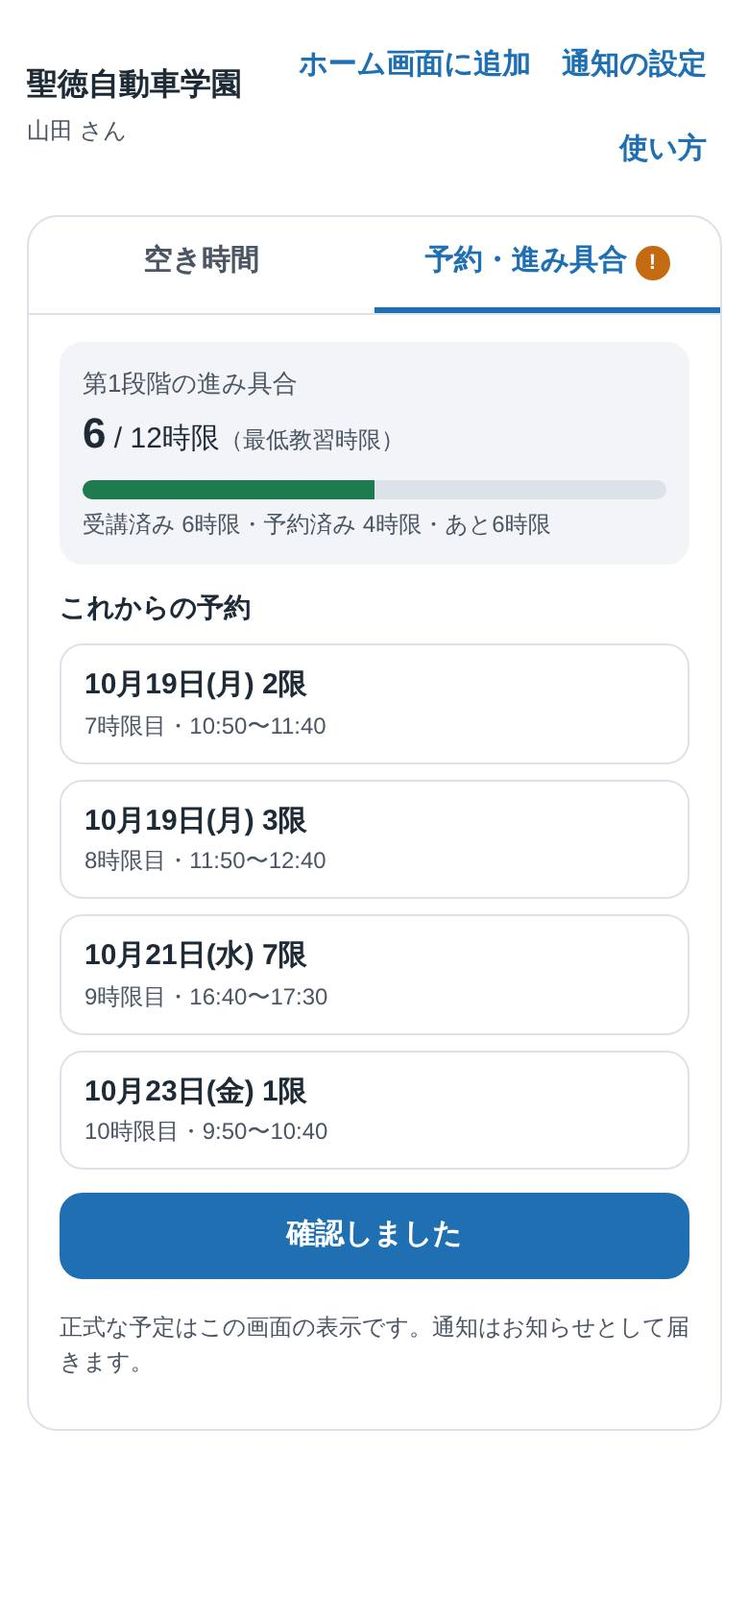
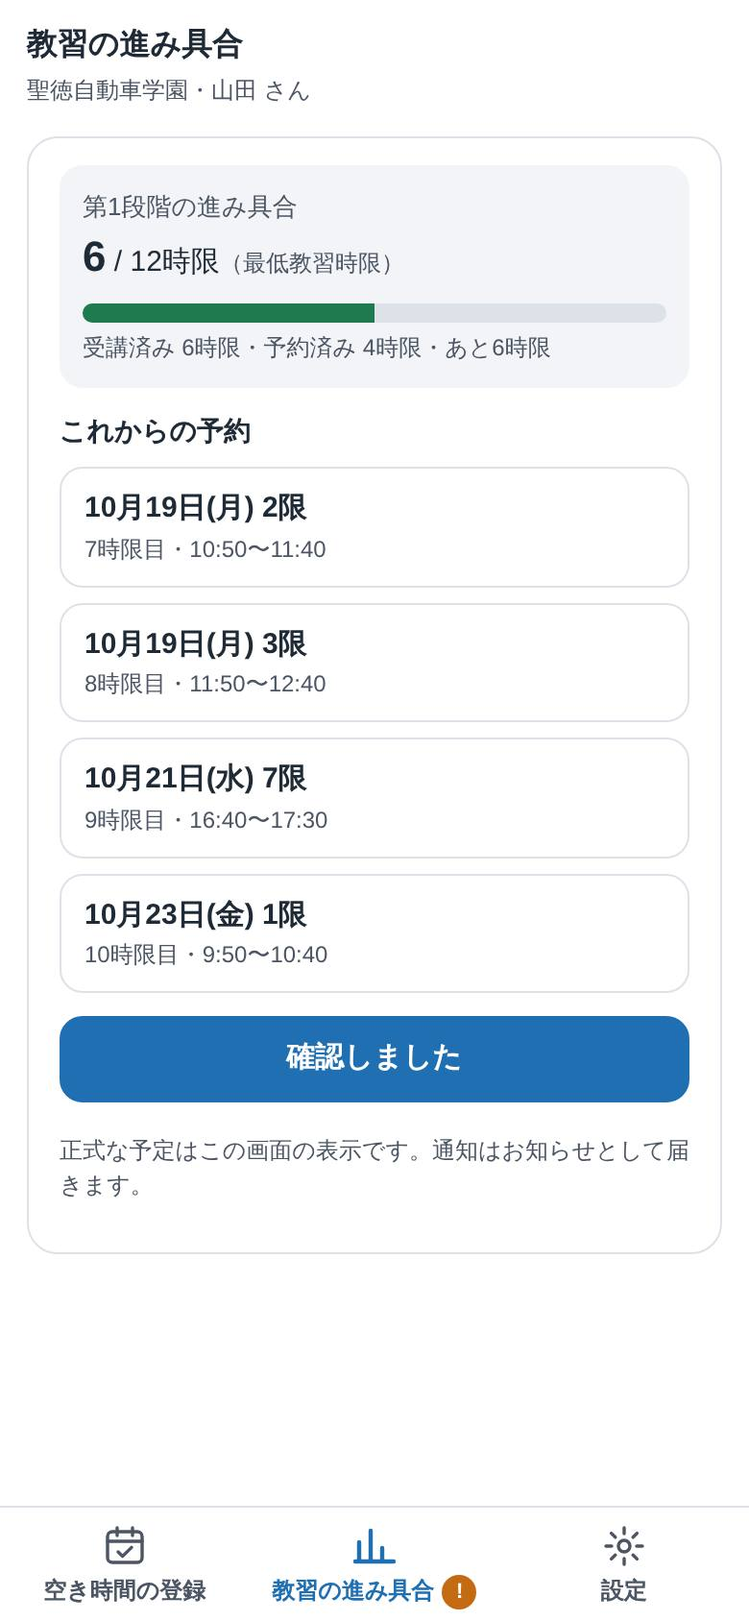
教習生の画面：画面の下にいつも出るタブ（空き時間の登録・教習の進み具合・設定）。設定（明るさ・文字の大きさ・通知など）。ダークモードのボタン文字を見やすく。説明書を撮り直し
Claude-Session: https://claude.ai/code/session_01TFEssVs3Y3zAmrgZUn2J4X

diff --git a/guide-student.html b/guide-student.html
@@ -49,5 +49,5 @@ footer{margin-top:28px;font-size:13px;color:var(--muted)}
 @media print{body{background:#fff}.phone{box-shadow:none}section.step{break-inside:avoid-page}nav.toc{display:none}}
 </style>
 <div class="wrap"><p style="margin:0 0 12px"><a href="javascript:history.back()" style="color:var(--blue);font-weight:700;text-decoration:none">← 前の画面に戻る</a></p><header class="cover"><div class="eyebrow">聖徳自動車学園　空き時間の登録</div><h1>スマホで空き時間を登録する方法</h1><p class="lead">これまで紙で提出していた「予約を入れてよい時間帯」を、スマホで登録します。予約が決まるとスマホに通知が届きます。ログインはいりません。学園で受け取ったQRコードを読み取るだけで、あなた専用の画面が開きます。</p><nav class="toc" aria-label="目次"><a href="#s1">最初にやること</a><a href="#s2">通知をオンにする</a><a href="#s3">空き時間を登録する</a><a href="#s4">予約を確認する</a><a href="#s5">予約をキャンセルしたい時</a><a href="#s6">検定の日</a><a href="#faq">困った時</a></nav></header>
-<section class="step" id="s1"><h2><span class="no">1</span>最初にやること</h2><p>QRコードをスマホのカメラで読み取ると、あなたの画面が開きます。最初に「ホーム画面に追加」をしておくと、次からはアイコンを押すだけで開けます。</p><div class="fig"><div class="phone"><img src="guide/s_install.jpg" alt="画面の例（ホーム画面に追加する手順、あとで）"><div class="mk" style="left:3.3%;top:73.74%;width:93.4%;height:12.74%"><b>1</b></div><div class="mk" style="left:3.3%;top:92.19%;width:93.4%;height:6.07%"><b>2</b></div></div><ol class="notes"><li><b>1</b><div><strong>ホーム画面に追加する手順</strong><span>iPhoneは、Safariの画面下の共有ボタン →「ホーム画面に追加」→「追加」の順に押します。Androidは「ホーム画面に追加する」ボタンが出るので、それを押します。</span></div></li><li><b>2</b><div><strong>あとで</strong><span>あとから追加する時は、画面上の「ホーム画面に追加」を押すと、この案内がもう一度出ます。</span></div></li></ol></div><div class="tip"><b>QRコードは自分だけのものです</b>QRコードを読み取ると、あなたの画面が開きます。他の人に見せたり、写真を送ったりしないでください。</div></section><section class="step" id="s2"><h2><span class="no">2</span>通知をオンにする</h2><p>予約が決まった時や変更があった時に、スマホに通知が届くようにします。画面右上の「通知の設定」を押してください。</p><div class="fig"><div class="phone"><img src="guide/s_push.jpg" alt="画面の例（iPhoneの方へ、通知を受け取る）"><div class="mk" style="left:3.3%;top:75.25%;width:93.4%;height:10.10%"><b>1</b></div><div class="mk" style="left:3.3%;top:85.97%;width:93.4%;height:6.07%"><b>2</b></div></div><ol class="notes"><li><b>1</b><div><strong>iPhoneの方へ</strong><span>iPhoneは、ホーム画面に追加したアイコンから開いた時だけ通知を受け取れます。先に「1 最初にやること」を済ませてください。</span></div></li><li><b>2</b><div><strong>通知を受け取る</strong><span>押すと「通知を許可しますか？」と聞かれるので、「許可」を選びます。</span></div></li></ol></div></section><section class="step" id="s3"><h2><span class="no">3</span>空き時間を登録する</h2><p>教習を受けられる時間帯に◯を付けます。タップするとすぐに保存されるので、保存ボタンはありません。</p><div class="fig"><div class="phone"><img src="guide/s_cal.jpg" alt="画面の例（締切のお知らせ、月の切り替え、マスをタップして◯を付ける、通知の設定）"><div class="mk" style="left:7.1%;top:20.63%;width:85.7%;height:12.41%"><b>1</b></div><div class="mk" style="left:7.1%;top:33.66%;width:85.7%;height:5.54%"><b>2</b></div><div class="mk" style="left:7.9%;top:50.73%;width:92.4%;height:4.59%"><b>3</b></div><div class="mk" style="left:72.2%;top:1.02%;width:25.0%;height:6.01%"><b>4</b></div></div><ol class="notes"><li><b>1</b><div><strong>締切のお知らせ</strong><span>次の月の分は、毎月20日が入力の締切です。締切までは何度でも変更できます。</span></div></li><li><b>2</b><div><strong>月の切り替え</strong><span>今月と来月を切り替えます。</span></div></li><li><b>3</b><div><strong>マスをタップして◯を付ける</strong><span>横が時限（1〜10限）、縦が日付です。空いている時間帯をタップすると◯が付き、もう一度タップすると外れます。</span></div></li><li><b>4</b><div><strong>通知の設定</strong><span>通知をオンにする時に使います。</span></div></li></ol></div><div class="fig"><div class="phone part"><img src="guide/s_cal2.jpg" alt="画面の例（色の見方、今月と同じにする、曜日でまとめて選ぶ）"><div class="mk" style="left:7.1%;top:71.60%;width:85.7%;height:10.40%"><b>1</b></div><div class="mk" style="left:7.1%;top:83.20%;width:42.6%;height:14.20%"><b>2</b></div><div class="mk" style="left:50.2%;top:83.20%;width:42.6%;height:14.20%"><b>3</b></div></div><ol class="notes"><li><b>1</b><div><strong>色の見方</strong><span>青い◯は空いている時間、オレンジの「予」は予約が入った時間です。</span></div></li><li><b>2</b><div><strong>今月と同じにする</strong><span>今月の◯の付け方（曜日ごと）を、来月にそのまま写します。</span></div></li><li><b>3</b><div><strong>曜日でまとめて選ぶ</strong><span>「毎週土曜の1・2限」のように、まとめて◯を付けられます。</span></div></li></ol></div><div class="fig"><div class="phone"><img src="guide/s_bulk.jpg" alt="画面の例（曜日を選ぶ、時限を選ぶ、◯を付ける）"><div class="mk" style="left:3.3%;top:69.03%;width:93.4%;height:6.49%"><b>1</b></div><div class="mk" style="left:3.3%;top:78.92%;width:93.4%;height:12.41%"><b>2</b></div><div class="mk" style="left:50.2%;top:92.19%;width:46.5%;height:6.07%"><b>3</b></div></div><ol class="notes"><li><b>1</b><div><strong>曜日を選ぶ</strong><span>◯を付けたい曜日を選びます。いくつでも選べます。</span></div></li><li><b>2</b><div><strong>時限を選ぶ</strong><span>◯を付けたい時限を選びます。</span></div></li><li><b>3</b><div><strong>◯を付ける</strong><span>選んだ曜日と時限のマスに、まとめて◯が付きます。</span></div></li></ol></div><div class="tip warn"><b>締切（20日）を過ぎたら</b>◯を付けることはできますが、外すことはできません（指導員が予約を組んでいる途中のためです）。都合が悪くなった時は、学園に電話してください。電話番号：<span class="tel">058-387-4171</span></div></section><section class="step" id="s4"><h2><span class="no">4</span>予約を確認する</h2><p>指導員が予約を決めると通知が届きます。「予約・進み具合」タブで内容を確認してください。</p><div class="fig"><div class="phone"><img src="guide/s_book.jpg" alt="画面の例（進み具合、これからの予約、確認しました）"><div class="mk" style="left:7.1%;top:20.63%;width:85.7%;height:14.60%"><b>1</b></div><div class="mk" style="left:7.1%;top:39.29%;width:85.7%;height:33.26%"><b>2</b></div><div class="mk" style="left:7.1%;top:73.18%;width:85.7%;height:6.07%"><b>3</b></div></div><ol class="notes"><li><b>1</b><div><strong>進み具合</strong><span>今の段階で受けた時限数と、最低教習時限（第1段階12時限、第2段階19時限）までのあと何時限かが分かります。</span></div></li><li><b>2</b><div><strong>これからの予約</strong><span>日付・時限・時間と、何時限目の教習かが出ます。</span></div></li><li><b>3</b><div><strong>確認しました</strong><span>予約を見たら必ず押してください。押さないと、指導員から確認の連絡が来ることがあります。</span></div></li></ol></div><div class="tip"><b>正式な予定はこの画面です</b>通知はお知らせです。予定はこの画面の表示を見てください。</div></section><section class="step" id="s5"><h2><span class="no">5</span>予約をキャンセルしたい時</h2><p>空き時間のカレンダーで、予約が入っているマス（オレンジの「予」）を押します。</p><div class="fig"><div class="phone"><img src="guide/s_locked.jpg" alt="画面の例（予約が入っているマス）"><div class="mk" style="left:28.5%;top:39.59%;width:9.3%;height:4.35%"><b>1</b></div></div><ol class="notes"><li><b>1</b><div><strong>予約が入っているマス</strong><span>予約済みのマスは、自分では外せません。押すと次の画面が出ます。</span></div></li></ol></div><div class="fig"><div class="phone"><img src="guide/s_cancel.jpg" alt="画面の例（キャンセル希望を送る、学園に電話する）"><div class="mk" style="left:3.3%;top:79.81%;width:93.4%;height:6.07%"><b>1</b></div><div class="mk" style="left:3.3%;top:86.03%;width:93.4%;height:6.01%"><b>2</b></div></div><ol class="notes"><li><b>1</b><div><strong>キャンセル希望を送る</strong><span>指導員にキャンセルの希望が届きます。指導員が承認すると、通知でお知らせします。承認されるまでは予約のままです。</span></div></li><li><b>2</b><div><strong>学園に電話する</strong><span>急ぎの時は電話してください。電話番号：<span class="tel">058-387-4171</span></span></div></li></ol></div></section><section class="step" id="s6"><h2><span class="no">6</span>検定の日</h2><p>みきわめに合格すると、「予約・進み具合」タブに検定日が出ます。検定日の当日は、朝に通知が届き、画面にもお知らせが出ます。</p><div class="fig"><div class="phone part"><img src="guide/s_kentei.jpg" alt="画面の例（検定日のお知らせ）"><div class="mk" style="left:7.1%;top:53.39%;width:85.7%;height:28.68%"><b>1</b></div></div><ol class="notes"><li><b>1</b><div><strong>検定日のお知らせ</strong><span>これまでに教わった事をよく思い出して、頑張ってください。</span></div></li></ol></div></section><section class="step" id="faq"><h2><span class="no">？</span>困った時は</h2><div class="faq"><div><strong>画面が開かない・読み込み中のまま</strong><span>LINEなどのアプリの中で開くと動かないことがあります。Safari（iPhone）か Chrome（Android）で開き直してください。それでもだめな時は、スマホのOSとブラウザを最新にしてください。</span></div><div><strong>QRコードをなくした・スマホを替えた</strong><span>担当の指導員に伝えてください。新しいQRコードを出してもらえます。登録した空き時間や予約はそのまま残ります。</span></div><div><strong>通知が来ない</strong><span>「通知の設定」で「通知を受け取る」を押したか確認してください。iPhoneはホーム画面のアイコンから開いて設定する必要があります。</span></div><div><strong>◯を外したいのに外せない</strong><span>締切（毎月20日）を過ぎると外せません。学園に電話してください。<span class="tel">058-387-4171</span></span></div></div></section>
+<section class="step" id="s1"><h2><span class="no">1</span>最初にやること</h2><p>QRコードをスマホのカメラで読み取ると、あなたの画面が開きます。最初に「ホーム画面に追加」をしておくと、次からはアイコンを押すだけで開けます。</p><div class="fig"><div class="phone"><img src="guide/s_install.jpg" alt="画面の例（ホーム画面に追加する手順、あとで）"><div class="mk" style="left:3.3%;top:73.74%;width:93.4%;height:12.74%"><b>1</b></div><div class="mk" style="left:3.3%;top:92.19%;width:93.4%;height:6.07%"><b>2</b></div></div><ol class="notes"><li><b>1</b><div><strong>ホーム画面に追加する手順</strong><span>iPhoneは、Safariの画面下の共有ボタン →「ホーム画面に追加」→「追加」の順に押します。Androidは「ホーム画面に追加する」ボタンが出るので、それを押します。</span></div></li><li><b>2</b><div><strong>あとで</strong><span>あとから追加する時は、画面の下の「設定」にある「ホーム画面に追加」を押すと、この案内がもう一度出ます。</span></div></li></ol></div><div class="tip"><b>QRコードは自分だけのものです</b>QRコードを読み取ると、あなたの画面が開きます。他の人に見せたり、写真を送ったりしないでください。</div></section><section class="step" id="s2"><h2><span class="no">2</span>通知をオンにする</h2><p>予約が決まった時や変更があった時に、スマホに通知が届くようにします。画面の下の「設定」を開いて、「通知の設定」を押してください。</p><div class="fig"><div class="phone"><img src="guide/s_set.jpg" alt="画面の例（画面の明るさ・文字の大きさ、通知・アプリ）"><div class="mk" style="left:7.1%;top:11.15%;width:85.7%;height:15.85%"><b>1</b></div><div class="mk" style="left:7.1%;top:40.65%;width:85.7%;height:25.03%"><b>2</b></div></div><ol class="notes"><li><b>1</b><div><strong>画面の明るさ・文字の大きさ</strong><span>ライト（白い背景）とダーク（黒い背景）、文字の大きさを選べます。</span></div></li><li><b>2</b><div><strong>通知・アプリ</strong><span>「通知の設定」で通知をオンにします。「ホーム画面に追加」もここからできます。</span></div></li></ol></div><div class="fig"><div class="phone"><img src="guide/s_push.jpg" alt="画面の例（iPhoneの方へ、通知を受け取る）"><div class="mk" style="left:3.3%;top:75.25%;width:93.4%;height:10.10%"><b>1</b></div><div class="mk" style="left:3.3%;top:85.97%;width:93.4%;height:6.07%"><b>2</b></div></div><ol class="notes"><li><b>1</b><div><strong>iPhoneの方へ</strong><span>iPhoneは、ホーム画面に追加したアイコンから開いた時だけ通知を受け取れます。先に「1 最初にやること」を済ませてください。</span></div></li><li><b>2</b><div><strong>通知を受け取る</strong><span>押すと「通知を許可しますか？」と聞かれるので、「許可」を選びます。</span></div></li></ol></div></section><section class="step" id="s3"><h2><span class="no">3</span>空き時間を登録する</h2><p>画面の下の「空き時間の登録」で、教習を受けられる時間帯に◯を付けます。タップするとすぐに保存されるので、保存ボタンはありません。</p><div class="fig"><div class="phone"><img src="guide/s_cal.jpg" alt="画面の例（締切のお知らせ、月の切り替え、マスをタップして◯を付ける、画面の切り替え）"><div class="mk" style="left:7.1%;top:9.73%;width:85.7%;height:12.41%"><b>1</b></div><div class="mk" style="left:7.1%;top:22.76%;width:85.7%;height:5.54%"><b>2</b></div><div class="mk" style="left:7.9%;top:39.83%;width:92.4%;height:4.59%"><b>3</b></div><div class="mk" style="left:-0.3%;top:92.73%;width:100.6%;height:7.17%"><b>4</b></div></div><ol class="notes"><li><b>1</b><div><strong>締切のお知らせ</strong><span>次の月の分は、毎月20日が入力の締切です。締切までは何度でも変更できます。</span></div></li><li><b>2</b><div><strong>月の切り替え</strong><span>今月と来月を切り替えます。</span></div></li><li><b>3</b><div><strong>マスをタップして◯を付ける</strong><span>横が時限（1〜10限）、縦が日付です。空いている時間帯をタップすると◯が付き、もう一度タップすると外れます。</span></div></li><li><b>4</b><div><strong>画面の切り替え</strong><span>画面の下のタブで、「空き時間の登録」「教習の進み具合」「設定」を切り替えます。いつも表示されています。</span></div></li></ol></div><div class="fig"><div class="phone part"><img src="guide/s_cal2.jpg" alt="画面の例（色の見方、今月と同じにする、曜日でまとめて選ぶ）"><div class="mk" style="left:7.1%;top:71.60%;width:85.7%;height:10.40%"><b>1</b></div><div class="mk" style="left:7.1%;top:83.20%;width:42.6%;height:14.20%"><b>2</b></div><div class="mk" style="left:50.2%;top:83.20%;width:42.6%;height:14.20%"><b>3</b></div></div><ol class="notes"><li><b>1</b><div><strong>色の見方</strong><span>青い◯は空いている時間、オレンジの「予」は予約が入った時間です。</span></div></li><li><b>2</b><div><strong>今月と同じにする</strong><span>今月の◯の付け方（曜日ごと）を、来月にそのまま写します。</span></div></li><li><b>3</b><div><strong>曜日でまとめて選ぶ</strong><span>「毎週土曜の1・2限」のように、まとめて◯を付けられます。</span></div></li></ol></div><div class="fig"><div class="phone"><img src="guide/s_bulk.jpg" alt="画面の例（曜日を選ぶ、時限を選ぶ、◯を付ける）"><div class="mk" style="left:3.3%;top:69.03%;width:93.4%;height:6.49%"><b>1</b></div><div class="mk" style="left:3.3%;top:78.92%;width:93.4%;height:12.41%"><b>2</b></div><div class="mk" style="left:50.2%;top:92.19%;width:46.5%;height:6.07%"><b>3</b></div></div><ol class="notes"><li><b>1</b><div><strong>曜日を選ぶ</strong><span>◯を付けたい曜日を選びます。いくつでも選べます。</span></div></li><li><b>2</b><div><strong>時限を選ぶ</strong><span>◯を付けたい時限を選びます。</span></div></li><li><b>3</b><div><strong>◯を付ける</strong><span>選んだ曜日と時限のマスに、まとめて◯が付きます。</span></div></li></ol></div><div class="tip warn"><b>締切（20日）を過ぎたら</b>◯を付けることはできますが、外すことはできません（指導員が予約を組んでいる途中のためです）。都合が悪くなった時は、学園に電話してください。電話番号：<span class="tel">058-387-4171</span></div></section><section class="step" id="s4"><h2><span class="no">4</span>予約を確認する</h2><p>指導員が予約を決めると通知が届きます。画面の下の「教習の進み具合」で内容を確認してください。</p><div class="fig"><div class="phone"><img src="guide/s_book.jpg" alt="画面の例（進み具合、これからの予約、確認しました）"><div class="mk" style="left:7.1%;top:9.73%;width:85.7%;height:14.60%"><b>1</b></div><div class="mk" style="left:7.1%;top:28.39%;width:85.7%;height:33.26%"><b>2</b></div><div class="mk" style="left:7.1%;top:62.28%;width:85.7%;height:6.07%"><b>3</b></div></div><ol class="notes"><li><b>1</b><div><strong>進み具合</strong><span>今の段階で受けた時限数と、最低教習時限（第1段階12時限、第2段階19時限）までのあと何時限かが分かります。</span></div></li><li><b>2</b><div><strong>これからの予約</strong><span>日付・時限・時間と、何時限目の教習かが出ます。</span></div></li><li><b>3</b><div><strong>確認しました</strong><span>予約を見たら必ず押してください。押さないと、指導員から確認の連絡が来ることがあります。</span></div></li></ol></div><div class="tip"><b>正式な予定はこの画面です</b>通知はお知らせです。予定はこの画面の表示を見てください。</div></section><section class="step" id="s5"><h2><span class="no">5</span>予約をキャンセルしたい時</h2><p>「空き時間の登録」のカレンダーで、予約が入っているマス（オレンジの「予」）を押します。</p><div class="fig"><div class="phone"><img src="guide/s_locked.jpg" alt="画面の例（予約が入っているマス）"><div class="mk" style="left:28.5%;top:28.69%;width:9.3%;height:4.35%"><b>1</b></div></div><ol class="notes"><li><b>1</b><div><strong>予約が入っているマス</strong><span>予約済みのマスは、自分では外せません。押すと次の画面が出ます。</span></div></li></ol></div><div class="fig"><div class="phone"><img src="guide/s_cancel.jpg" alt="画面の例（キャンセル希望を送る、学園に電話する）"><div class="mk" style="left:3.3%;top:79.81%;width:93.4%;height:6.07%"><b>1</b></div><div class="mk" style="left:3.3%;top:86.03%;width:93.4%;height:6.01%"><b>2</b></div></div><ol class="notes"><li><b>1</b><div><strong>キャンセル希望を送る</strong><span>指導員にキャンセルの希望が届きます。指導員が承認すると、通知でお知らせします。承認されるまでは予約のままです。</span></div></li><li><b>2</b><div><strong>学園に電話する</strong><span>急ぎの時は電話してください。電話番号：<span class="tel">058-387-4171</span></span></div></li></ol></div></section><section class="step" id="s6"><h2><span class="no">6</span>検定の日</h2><p>みきわめに合格すると、「教習の進み具合」に検定日が出ます。検定日の当日は、朝に通知が届き、画面にもお知らせが出ます。</p><div class="fig"><div class="phone part"><img src="guide/s_kentei.jpg" alt="画面の例（検定日のお知らせ）"><div class="mk" style="left:2.8%;top:20.36%;width:94.4%;height:28.68%"><b>1</b></div></div><ol class="notes"><li><b>1</b><div><strong>検定日のお知らせ</strong><span>これまでに教わった事をよく思い出して、頑張ってください。</span></div></li></ol></div></section><section class="step" id="faq"><h2><span class="no">？</span>困った時は</h2><div class="faq"><div><strong>画面が開かない・読み込み中のまま</strong><span>LINEなどのアプリの中で開くと動かないことがあります。Safari（iPhone）か Chrome（Android）で開き直してください。それでもだめな時は、スマホのOSとブラウザを最新にしてください。</span></div><div><strong>QRコードをなくした・スマホを替えた</strong><span>担当の指導員に伝えてください。新しいQRコードを出してもらえます。登録した空き時間や予約はそのまま残ります。</span></div><div><strong>通知が来ない</strong><span>画面の下の「設定」→「通知の設定」で「通知を受け取る」を押したか確認してください。iPhoneはホーム画面のアイコンから開いて設定する必要があります。</span></div><div><strong>◯を外したいのに外せない</strong><span>締切（毎月20日）を過ぎると外せません。学園に電話してください。<span class="tel">058-387-4171</span></span></div></div></section>
 <footer>画面の名前や日付は説明用の見本です。分からないことは担当の指導員か、学園の事務所に聞いてください。</footer></div>

diff --git a/js/student.js b/js/student.js
@@ -5,7 +5,7 @@ import {
 import {
   CFG, db, WD, P, ymOf, dateStr, parseDate, daysIn, today, md, label, slotKey, esc, toast, sheet, closeSheet,
   onOverlayClose, friendlyError, enablePush, pushReasonText, isIOS, isStandalone, listenForeground,
-  installButton, firstVisitInstall, lessonPlan, lessonMin, doneOf, mikiwameOf, kenteiOn
+  installButton, firstVisitInstall, lessonPlan, lessonMin, doneOf, mikiwameOf, kenteiOn, lookSettingsHtml
 } from "./common.js";
 
 const app = document.getElementById("app");
@@ -62,18 +62,38 @@ function unacked() {
   return n && (!a || n.toMillis() > a.toMillis());
 }
 
-function render() {
-  const st = S.student;
-  let h = `<div class="topbar"><div><h1>${esc(CFG.schoolName)}</h1><small>${esc(st.name)} さん</small></div>
-    <span>${installButton()}<button class="linkbtn" data-act="push">通知の設定</button><a class="linkbtn" href="guide-student.html">使い方</a></span></div>
-  <section class="panel"><div class="tabs" role="tablist">
-    <button role="tab" aria-selected="${S.tab === "cal"}" data-act="tab" data-v="cal">空き時間</button>
-    <button role="tab" aria-selected="${S.tab === "book"}" data-act="tab" data-v="book">予約・進み具合${unacked() ? '<span class="dot">!</span>' : ""}</button>
-  </div><div class="body">`;
-  if (kenteiOn(st)) h += `<div class="banner ok" style="font-size:16px;text-align:center"><b>本日はいよいよ検定日です！</b><br>これまでに教わった事をよく思い出して頑張りましょう！</div>`;
-  h += S.tab === "cal" ? renderCal() : renderBook();
-  app.innerHTML = h + `</div></section>`;
+// 画面の下にいつも出すタブ：左「空き時間の登録」、真ん中「教習の進み具合」、右「設定」
+const TABS = [
+  ["cal", "空き時間の登録", '<svg viewBox="0 0 24 24" aria-hidden="true"><rect x="3" y="4.5" width="18" height="16" rx="2.5"/><path d="M3 9.5h18M8 2.5v4M16 2.5v4M8.5 15l2.3 2.3 4.7-4.6"/></svg>'],
+  ["book", "教習の進み具合", '<svg viewBox="0 0 24 24" aria-hidden="true"><path d="M4 20V10M10 20V4M16 20v-7M22 20H2"/></svg>'],
+  ["set", "設定", '<svg viewBox="0 0 24 24" aria-hidden="true"><circle cx="12" cy="12" r="3"/><path d="M12 2.5v3M12 18.5v3M2.5 12h3M18.5 12h3M5.3 5.3l2.1 2.1M16.6 16.6l2.1 2.1M5.3 18.7l2.1-2.1M16.6 7.4l2.1-2.1"/></svg>']
+];
+function renderNav() {
+  const nav = document.getElementById("tabnav");
+  document.body.classList.add("shell"); nav.hidden = false;
+  nav.innerHTML = `<div class="tn-tabs" role="tablist">${TABS.map(([v, t, ic]) => `<button role="tab" aria-selected="${S.tab === v}" data-act="tab" data-v="${v}">${ic}<span>${t}${v === "book" && unacked() ? '<span class="dot">!</span>' : ""}</span></button>`).join("")}</div>`;
 }
+function render() {
+  const st = S.student, title = TABS.find(x => x[0] === S.tab)[1];
+  let h = `<div class="topbar"><div><h1>${title}</h1><small>${esc(CFG.schoolName)}・${esc(st.name)} さん</small></div></div>`;
+  if (kenteiOn(st)) h += `<div class="banner ok" style="font-size:16px;text-align:center"><b>本日はいよいよ検定日です！</b><br>これまでに教わった事をよく思い出して頑張りましょう！</div>`;
+  h += `<section class="panel"><div class="body${S.tab === "set" ? " setpage" : ""}">`;
+  h += S.tab === "cal" ? renderCal() : S.tab === "book" ? renderBook() : renderSet();
+  app.innerHTML = h + `</div></section>`;
+  renderNav();
+}
+// 設定：見た目（明るさ・文字の大きさ）、通知、ホーム画面に追加、困った時
+function renderSet() {
+  const st = S.student;
+  return `${lookSettingsHtml({ view: false })}
+  <div class="setgrp"><h3>通知・アプリ</h3><div class="list"><button class="btn primary full" data-act="push">通知の設定</button>${installButton() ? `<div>${installButton()}</div>` : ""}</div>
+    <p class="setnote">予約が決まった時や変更があった時に、スマホに通知が届きます。${isIOS() ? "iPhoneは、ホーム画面に追加したアイコンから開いた時だけ通知を受け取れます。" : ""}</p></div>
+  <div class="setgrp"><h3>あなたの情報</h3><div class="item"><div><div class="t">${esc(st.name)} さん</div><div class="s">${st.studentNo ? `教習生番号 ${esc(st.studentNo)}・` : ""}第${st.stage}段階</div></div></div>
+    <p class="setnote">登録内容が違う時は、担当の指導員に伝えてください。</p></div>
+  <div class="setgrp"><h3>困った時は</h3><div class="list"><a class="btn full center" style="text-decoration:none" href="guide-student.html">使い方を見る</a><a class="btn full center" style="text-decoration:none" href="tel:${esc(CFG.schoolTel)}">学園に電話する</a></div>
+    <p class="setnote">${esc(CFG.schoolName)}　電話 <span class="tel">${esc(CFG.schoolTel)}</span></p></div>`;
+}
+document.addEventListener("pref:change", () => { if (S.student) render(); });
 
 const lockedNote = () => CFG.noRemoveAfterDeadline
   ? "締切を過ぎているため、◯を付けることはできますが、外すことはできません。都合が悪くなった場合は学園にお電話ください。"
@@ -181,7 +201,7 @@ document.addEventListener("click", async e => {
   if (onOverlayClose(e)) return;
   const t = e.target.closest("[data-act]"); if (!t) return;
   const a = t.dataset.act;
-  if (a === "tab") { S.tab = t.dataset.v; render(); }
+  if (a === "tab") { S.tab = t.dataset.v; render(); window.scrollTo(0, 0); }
   else if (a === "month") { S.mi = +t.dataset.v; render(); }
   else if (a === "toggle") {
     const { y, m } = MONTHS[S.mi]; const ym = ymOf(y, m); const k = slotKey(+t.dataset.d, +t.dataset.p);

diff --git a/css/app.css b/css/app.css
@@ -5,7 +5,7 @@
   --page:#FFFFFF; --bg:#F2F4F7; --surface:#FFFFFF; --ink:#1F2A37; --muted:#4B5563; --line:#DDE2E8;
   --blue:#1F6FB2; --blue-soft:#E3EEF8; --orange:#C46A12; --orange-soft:#FDEEDD;
   --green:#1E7A4F; --green-soft:#E1F3EA; --lock:#7A4A12; --lv1:#2E8B57; --lv1-soft:#E3F4EA; --lv2:#C99A06; --lv2-soft:#FDF5D6; --lv3:#D0453A; --lv3-soft:#FBE4E2;
-  --nav:#FFFFFF; --shadow:0 1px 3px rgba(16,24,40,.08);
+  --nav:#FFFFFF; --shadow:0 1px 3px rgba(16,24,40,.08); --on-accent:#FFFFFF;
   box-sizing:border-box;
   padding-top:env(safe-area-inset-top,0px); padding-bottom:env(safe-area-inset-bottom,0px);
 }
@@ -14,14 +14,14 @@
     --page:#000000; --bg:#161616; --surface:#0D0D0D; --ink:#ECECEC; --muted:#9C9C9C; --line:#2A2A2A;
     --blue:#82B4E6; --blue-soft:#14222F; --orange:#E2A061; --orange-soft:#2B1E12;
     --green:#6CC59B; --green-soft:#11251B; --lock:#EBC28F; --lv1:#5CBF88; --lv1-soft:#10241A; --lv2:#D9B54E; --lv2-soft:#2A2410; --lv3:#E97A6E; --lv3-soft:#2E1614;
-    --nav:#0A0A0A; --shadow:none; color-scheme:dark;
+    --nav:#0A0A0A; --shadow:none; --on-accent:#0B0B0B; color-scheme:dark;
   }
 }
 :root[data-theme="dark"]{
   --page:#000000; --bg:#161616; --surface:#0D0D0D; --ink:#ECECEC; --muted:#9C9C9C; --line:#2A2A2A;
   --blue:#82B4E6; --blue-soft:#14222F; --orange:#E2A061; --orange-soft:#2B1E12;
   --green:#6CC59B; --green-soft:#11251B; --lock:#EBC28F; --lv1:#5CBF88; --lv1-soft:#10241A; --lv2:#D9B54E; --lv2-soft:#2A2410; --lv3:#E97A6E; --lv3-soft:#2E1614;
-  --nav:#0A0A0A; --shadow:none; color-scheme:dark;
+  --nav:#0A0A0A; --shadow:none; --on-accent:#0B0B0B; color-scheme:dark;
 }
 :root[data-theme="light"]{color-scheme:light}
 /* 文字の大きさ「大きめ」 */
@@ -60,7 +60,7 @@ table.cal{border-collapse:separate;border-spacing:3px;font-size:12px}
 .cal th.day{text-align:right;padding-right:6px}
 .cal th.sat{color:var(--blue)} .cal th.sun{color:#C0392B}
 .cell{width:30px;height:30px;border-radius:7px;border:1.5px solid var(--line);background:transparent;padding:0;display:flex;align-items:center;justify-content:center;font-size:13px;font-weight:700}
-.cell.on{background:var(--blue);border-color:var(--blue);color:#fff}
+.cell.on{background:var(--blue);border-color:var(--blue);color:var(--on-accent)}
 .cell.booked{background:var(--orange-soft);border-color:var(--orange);color:var(--lock)}
 .cell.req{background:repeating-linear-gradient(45deg,var(--orange-soft),var(--orange-soft) 4px,transparent 4px,transparent 8px);border-color:var(--orange);color:var(--lock)}
 .legend{display:flex;flex-wrap:wrap;gap:12px;font-size:12px;color:var(--muted);margin:10px 0}
@@ -68,8 +68,8 @@ table.cal{border-collapse:separate;border-spacing:3px;font-size:12px}
 .sw{width:14px;height:14px;border-radius:4px;border:1.5px solid var(--line);display:inline-block}
 .tools{display:grid;grid-template-columns:1fr 1fr;gap:8px;margin-top:6px}
 .btn{border:1.5px solid var(--line);background:var(--surface);border-radius:12px;padding:10px 12px;min-height:44px;font-weight:700}
-.btn.primary{background:var(--blue);border-color:var(--blue);color:#fff}
-.btn.accent{background:var(--orange);border-color:var(--orange);color:#fff}
+.btn.primary{background:var(--blue);border-color:var(--blue);color:var(--on-accent)}
+.btn.accent{background:var(--orange);border-color:var(--orange);color:var(--on-accent)}
 .btn.full{width:100%}
 .btn:disabled{opacity:.45;cursor:not-allowed}
 .list{display:flex;flex-direction:column;gap:8px}
@@ -120,12 +120,12 @@ table.wk{border-collapse:separate;border-spacing:3px;width:100%;table-layout:fix
 .heatleg{display:flex;flex-wrap:wrap;gap:10px;font-size:12px;color:var(--muted);margin-bottom:6px;align-items:center}
 .heatleg span{display:inline-flex;align-items:center;gap:4px}
 .heatleg i{width:14px;height:14px;border-radius:4px;display:inline-block;border:1.5px solid}
-.wc.bk{background:var(--orange);border-color:var(--orange);color:#fff}
+.wc.bk{background:var(--orange);border-color:var(--orange);color:var(--on-accent)}
 .wc.bk.draft{background:var(--orange-soft);color:var(--lock)}
 .wc.bk.done{background:var(--green-soft);border-color:var(--green);color:var(--green)}
 .wc.bk.absent{background:var(--bg);border-color:var(--line);color:var(--muted);text-decoration:line-through}
 .wc.bk.gone{background:var(--lv3-soft);border-color:var(--lv3);color:var(--lv3)}
-.wc.cand{background:var(--blue);border-color:var(--blue);color:#fff}
+.wc.cand{background:var(--blue);border-color:var(--blue);color:var(--on-accent)}
 .wc.off{opacity:.35}
 .wc small{display:block;font-weight:400;font-size:10px}
 .picking{display:flex;justify-content:space-between;align-items:center;gap:8px;background:var(--blue-soft);border-radius:10px;padding:8px 10px;margin-bottom:8px;font-size:13px}

diff --git a/js/common.js b/js/common.js
@@ -277,11 +277,11 @@ export function applyLook() {
 }
 // 設定画面の「見た目」の部分（管理画面と指導員の画面で共通）
 const choice = (k, v, cur, t) => `<button class="chip" aria-pressed="${cur === v}" data-act="pref" data-k="${k}" data-v="${v}">${t}</button>`;
-export function lookSettingsHtml() {
+export function lookSettingsHtml({ view = true } = {}) {
   const th = getPref("theme", "system"), fs = getPref("fontsize", "normal"), vm = getViewMode();
   return `<div class="setgrp"><h3>画面の明るさ</h3><div class="chips wrapchips">${choice("theme", "light", th, "ライト（明るい）")}${choice("theme", "dark", th, "ダーク（暗い）")}${choice("theme", "system", th, "スマホ・PCの設定に合わせる")}</div></div>
   <div class="setgrp"><h3>文字の大きさ</h3><div class="chips wrapchips">${choice("fontsize", "normal", fs, "標準")}${choice("fontsize", "large", fs, "大きめ")}</div></div>
-  <div class="setgrp"><h3>表示</h3><div class="chips wrapchips">${choice("view", "auto", vm, "自動（画面の幅で切り替え）")}${choice("view", "pc", vm, "いつもPC表示")}${choice("view", "sp", vm, "いつもスマホ表示")}</div></div>`;
+  ${view ? "" : "<!--"}<div class="setgrp"><h3>表示</h3><div class="chips wrapchips">${choice("view", "auto", vm, "自動（画面の幅で切り替え）")}${choice("view", "pc", vm, "いつもPC表示")}${choice("view", "sp", vm, "いつもスマホ表示")}</div></div>${view ? "" : "-->"}`;
 }
 // 設定のボタン。変えたら "pref:change" を出すので、各画面は描き直す
 if (typeof document !== "undefined") document.addEventListener("click", e => {

diff --git a/student.html b/student.html
@@ -18,6 +18,7 @@
 </head>
 <body data-app="student">
 <div class="wrap"><div id="app"><div class="loading" id="boot">読み込み中…</div></div></div>
+<nav id="tabnav" class="tabnav noprint" aria-label="画面の切り替え" hidden></nav>
 <div id="overlay"></div>
 <script type="module" src="js/student.js"></script>
 </body>
